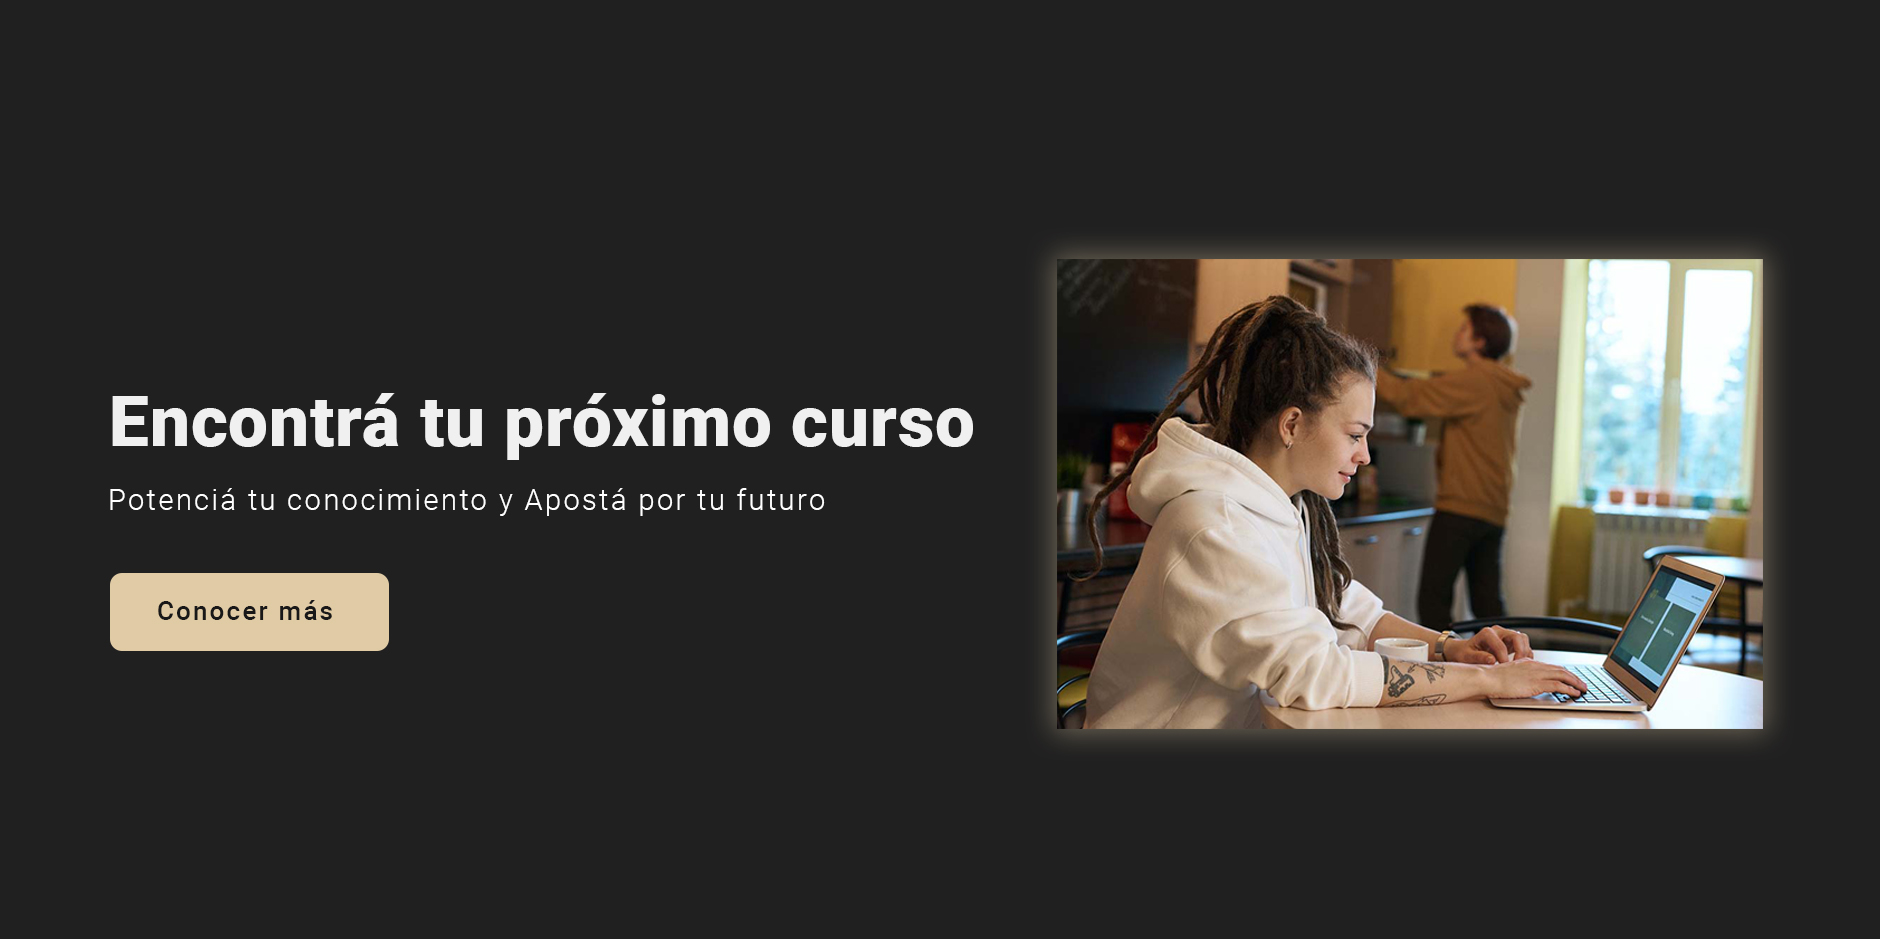
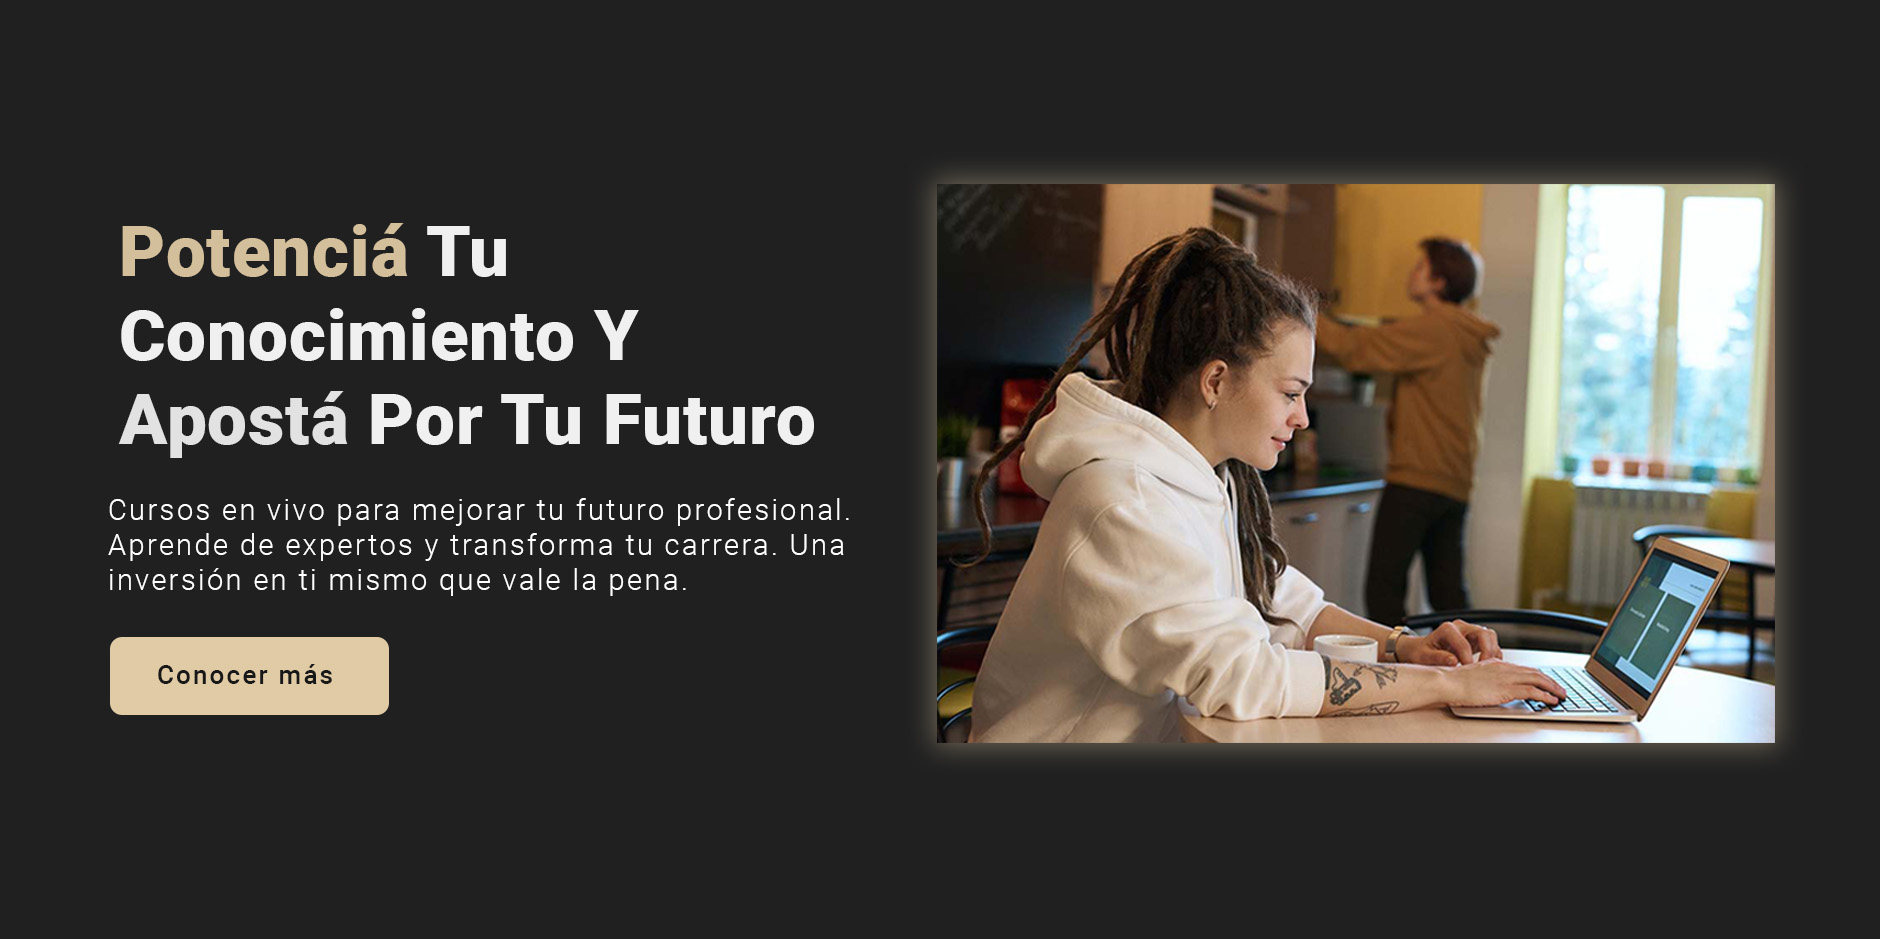
Modifiqué información y estilos

Changed region(s): [[0.0617, 0.1853, 0.9564, 0.803], [0.0309, 0.525, 0.4628, 0.7721]]

diff --git a/css/styles.css b/css/styles.css
@@ -258,17 +258,24 @@ HOME
 }
 
 .home .container .col-1 h1 {
-  font-size: 4rem;
+  font-size: 5rem;
   color: var(--white);
   opacity: .90;
+  width: 90%;
+  text-transform: capitalize;
   animation: fadeInDown;
   animation-duration: 1s;
   animation-fill-mode: backwards;
   animation-delay: .2s;
 }
 
+.home .container .col-1 span {
+  color: var(--main-color);
+}
+
 .home .container .col-1 p {
   margin: 1rem 0;
+  width: 80%;
   animation: fadeInDown;
   animation-duration: 1s;
   animation-fill-mode: backwards;
@@ -1185,6 +1192,13 @@ RESPONSIVE
 
   .home .container .col-1 h1 {
     font-size: 6rem;
+    text-align: center;
+    margin: 0 auto;
+  }
+
+  .home .container .col-1 p {
+    text-align: center;
+    margin: 1rem auto;
   }
 
   .home .container .col-2 {
@@ -1293,6 +1307,17 @@ RESPONSIVE
     text-align: initial;
   }
 
+  .home .container .col-1 h1 {
+    text-align: initial;
+    margin: 0;
+    width: 100%;
+  }
+
+  .home .container .col-1 p {
+    text-align: initial;
+    margin: 1rem 0;
+  }
+
   .home .container .col-2 img {
     width: 100%;
   }
@@ -1328,6 +1353,10 @@ RESPONSIVE
 
   .home .container .col-1 h1 {
     font-size: 4rem;
+  }
+
+  .home .container .col-1 p {
+    width: 100%;
   }
 
   .home .container .col-1 a {

diff --git a/index.html b/index.html
@@ -104,8 +104,11 @@
 
       <div class="container">
         <div class="col-1">
-          <h1>Encontrá tu próximo curso</h1>
-          <p>Potenciá tu conocimiento y Apostá por tu futuro</p>
+          <h1><span>Potenciá</span> tu conocimiento y Apostá por tu futuro</h1>
+          <p>
+            Cursos en vivo para mejorar tu futuro profesional. Aprende de expertos y transforma tu carrera. Una
+            inversión en ti mismo que vale la pena.
+          </p>
           <a href="#cards">Conocer más</a>
         </div>
         <div class="col-2">
